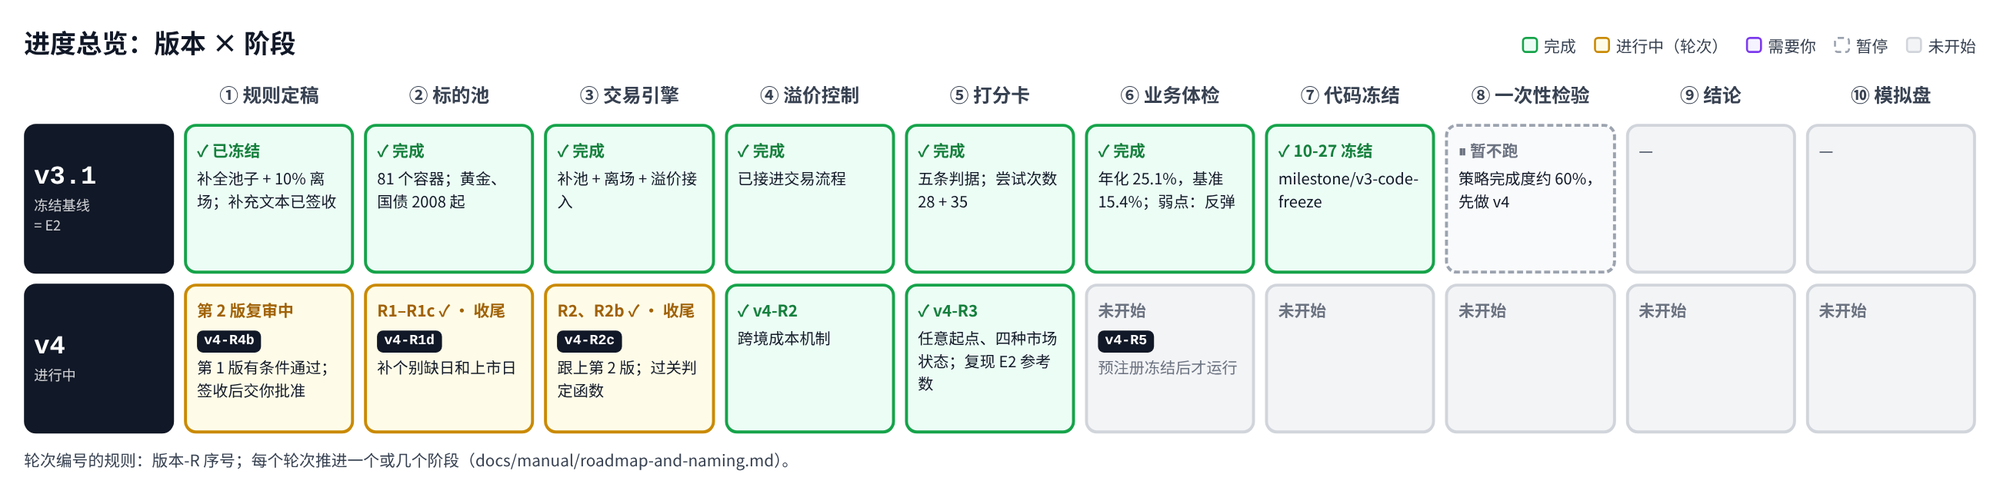
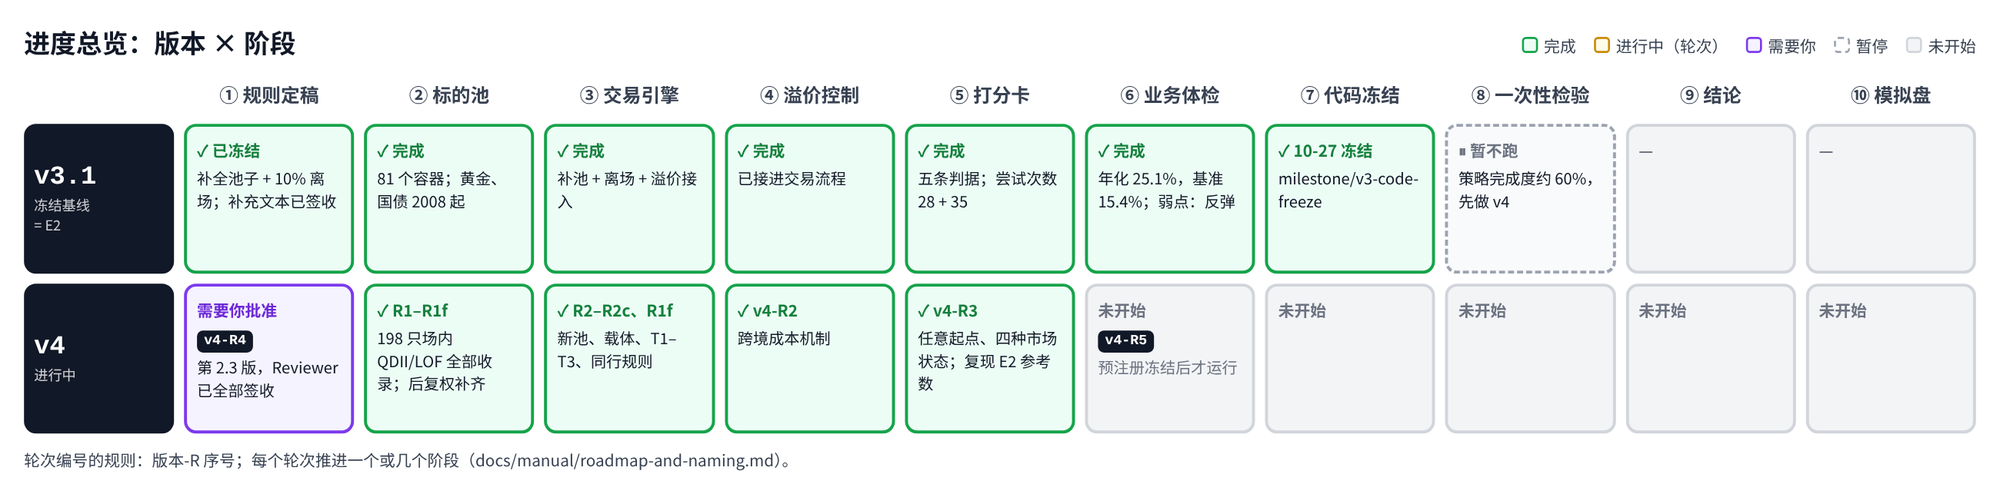
看板：准备完成，待批准 v4 预注册
Claude-Session: https://claude.ai/code/session_01PmXaEwvnhMrSzwWPeiEpbL

Changed region(s): [[0.093, 0.5466, 0.372, 0.8806]]

diff --git a/results/v3/diag/2026-10-27-owner-board/roadmap2.html b/results/v3/diag/2026-10-27-owner-board/roadmap2.html
@@ -37,9 +37,9 @@ body{font-family:"Noto Sans CJK SC",sans-serif;background:#fff;color:#111827;wid
 <div class="c todo"><div class="s">—</div></div>
 
 <div class="row"><b>v4</b><span>进行中</span></div>
-<div class="c go"><div class="s">第 2 版复审中</div><span class="r">v4-R4b</span><br>第 1 版有条件通过；签收后交你批准</div>
-<div class="c go"><div class="s">R1–R1c ✓ · 收尾</div><span class="r">v4-R1d</span><br>补个别缺日和上市日</div>
-<div class="c go"><div class="s">R2、R2b ✓ · 收尾</div><span class="r">v4-R2c</span><br>跟上第 2 版；过关判定函数</div>
+<div class="c own"><div class="s">需要你批准</div><span class="r">v4-R4</span><br>第 2.3 版，Reviewer 已全部签收</div>
+<div class="c done"><div class="s">✓ R1–R1f</div>198 只场内 QDII/LOF 全部收录；后复权补齐</div>
+<div class="c done"><div class="s">✓ R2–R2c、R1f</div>新池、载体、T1–T3、同行规则</div>
 <div class="c done"><div class="s">✓ v4-R2</div>跨境成本机制</div>
 <div class="c done"><div class="s">✓ v4-R3</div>任意起点、四种市场状态；复现 E2 参考数</div>
 <div class="c todo"><div class="s">未开始</div><span class="r">v4-R5</span><br>预注册冻结后才运行</div>

diff --git a/docs/owner/phase2-owner-board.md b/docs/owner/phase2-owner-board.md
@@ -17,23 +17,23 @@
 
 | 工程进度 | 业务结论 | 需要你 |
 | --- | --- | --- |
-| **v4 预注册第 2 版已交复审**：第 1 版有条件通过，5 处要改的已改完。引擎已接上新池和 T1–T3（v4-R2b），124 只 ETF 已补后复权，2016 年以后的数据已查完（v4-R1c）。 | E2 设计期年化 **25.1%**，基准 **15.4%**。但超额主要来自熊市防守；普通牛市打平，反弹里输得最多。v4 要补的就是这一块（3.7、第 4 节）。 | **暂时不需要。**Reviewer 复核完 v4 预注册后，请你批准（1.3 是要点）。 |
+| **v4 设计期运行前的准备全部完成**：198 只场内 QDII、LOF 全部收录，后复权补齐；引擎、过关判定、公开同行规则都已签收。预注册第 2.3 版 Reviewer 已全部签收。 | E2 设计期年化 **25.1%**，基准 **15.4%**。超额主要来自熊市防守；普通牛市打平，反弹里输得最多。v4 要补的就是这一块（3.7、第 4 节）。 | **批准 v4 预注册**（1.3 是要点）。批准后冻结规则，在 2006–2015 年运行 v4。 |
 
 ## 1. 进度总览
 
-> **离在设计期运行 v4 还差两步：预注册第 2 版签收并由你批准，引擎和数据收尾。**
+> **只差你批准预注册，就可以冻结规则、在设计期运行 v4。**
 
 ![进度总览：版本 × 阶段](../assets/owner-board/b0-roadmap.png)
 
 每个版本都走同样的 10 个阶段。格子里的 v4-R1 等是推进这个阶段的开发轮次；命名规则见 docs/manual/roadmap-and-naming.md。
 
-### 1.1 这一轮完成了什么（v4-R4、R2b、R1c）
+### 1.1 这几轮完成了什么
 
-| 预注册第 1 版：有条件通过 | 引擎接上新池 | 2016 年以后的数据查完 |
+| 市场还原 | 数据补齐 | 规则写死 |
 | --- | --- | --- |
-| Reviewer 挑出 5 处写得不够死的地方，比如“前后两段”的起止日、过关怎么算、尝试次数怎么数。都已在第 2 版改掉。 | 新池、载体、汇率、T1–T3 都做成了开关。全部关闭时，v3.1 的结果逐日不变。 | 2,389 条问题里，**12** 条必须修的已修好（多是 2024 年 9 月底的涨停日，核实是真行情）；**15** 条交我定，已定（D16）；其余可以接受。 |
+| 交易所 198 只场内 QDII、LOF 全部收录，主动基金也在内（全球芯片归入费城半导体那一组），池子 87 → **118** 个容器。同一指数只算一个容器。 | 23 只 QDII 净值从成立日补齐；东财取不到的 8 只后复权，按分红记录自己还原并与累计净值核对（D21）。 | 预注册第 2.3 版经过四轮复核全部签收；公开同行两条规则、过关判定、结论报告模板都已实现并签收。 |
 
-载体表显示：2015 年末，14 个 A 股容器里只有 4 个当年能买到（2 个场内、1 个场外、1 个相近替身），其余 10 个当年买不到。可交易池在设计期仍然很薄。
+一次性检验推迟到研究封板；模拟盘只在封板后上一个（D20）。
 
 ### 1.2 数据口径：已定（D14）
 
@@ -285,6 +285,7 @@ T1、T2 用 2009 年和 2012 年真实数据走一遍的例子，以及证据、
 
 ## 更新记录
 
+- **10-29（二）**：准备全部完成：198 只场内 QDII、LOF 收录，8 只缺的后复权按分红记录还原（D21）；预注册第 2.3 版签收，待你批准；一次性检验推迟到研究封板（D20）。
 - **10-29**：场内 QDII、LOF 一律纳入（含全球芯片这类主动基金），同一指数只取一个、同类商品选流动性最好的（D19）；对照基线命名为“E2 新口径”。
 - **10-28（六）**：预注册第 1 版有条件通过，第 2 版已改完交复审；引擎和 2016 年以后的数据检查完成；载体和数据的 9 个口径定了（D16）。
 - **10-28（五）**：v4-R1b 完成；8 个口径问题定了（D15）；v4 预注册草案已写，交 Reviewer 复核；新增 2016 年以后的数据完整性检查。
